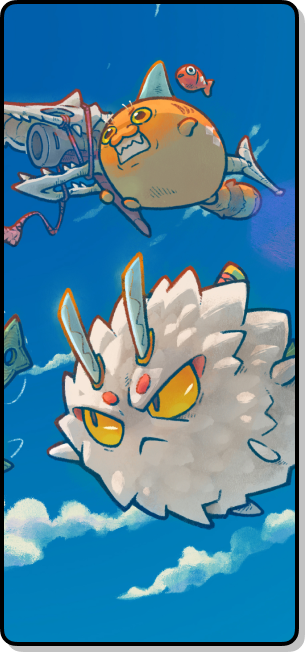
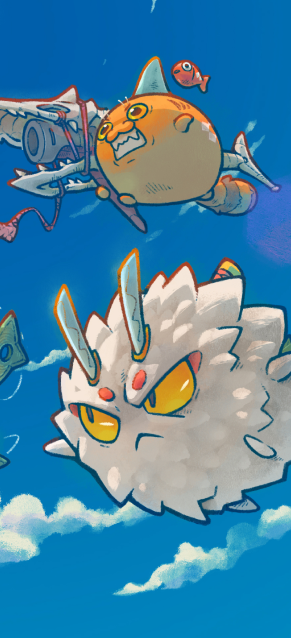
add file

diff --git a/src/views/user/Slider.vue b/src/views/user/Slider.vue
@@ -197,19 +197,12 @@ onMounted(() => {
         position: absolute;
         top: 0;
         left: 0;
+        box-sizing: border-box;
         width: 305px;
         height: 652px;
-        background: url("/mock/game1/banner/mini_bg_1.png") no-repeat top left / 100%;
-
-        // box-sizing: border-box;
-        // width: 291px;
-        // height: 638px;
-        // background: rgb(0 0 0 / 30%);
-
-        // // background: url(HQ Banner.jpg);
-        // filter: drop-shadow(6px 6px 0 rgb(0 0 0 / 24%));
-        // border: 4px solid #000;
-        // border-radius: 12px;
+        filter: drop-shadow(6px 6px 0 rgb(0 0 0 / 24%));
+        border: 4px solid #000;
+        border-radius: 12px;
       }
 
       .slider-right {
@@ -389,6 +382,24 @@ onMounted(() => {
             font-size: 16px;
             font-weight: 600;
           }
+        }
+      }
+
+      &:nth-child(1) {
+        .slider-left {
+          background: url("/mock/game1/banner/mini_bg_1.png") no-repeat top left / 100%;
+        }
+      }
+
+      &:nth-child(2) {
+        .slider-left {
+          background: url("/mock/game1/banner/mini_bg_2.png") no-repeat top left / 100%;
+        }
+      }
+
+      &:nth-child(3) {
+        .slider-left {
+          background: url("/mock/game1/banner/mini_bg_3.png") no-repeat top left / 100%;
         }
       }
     }
